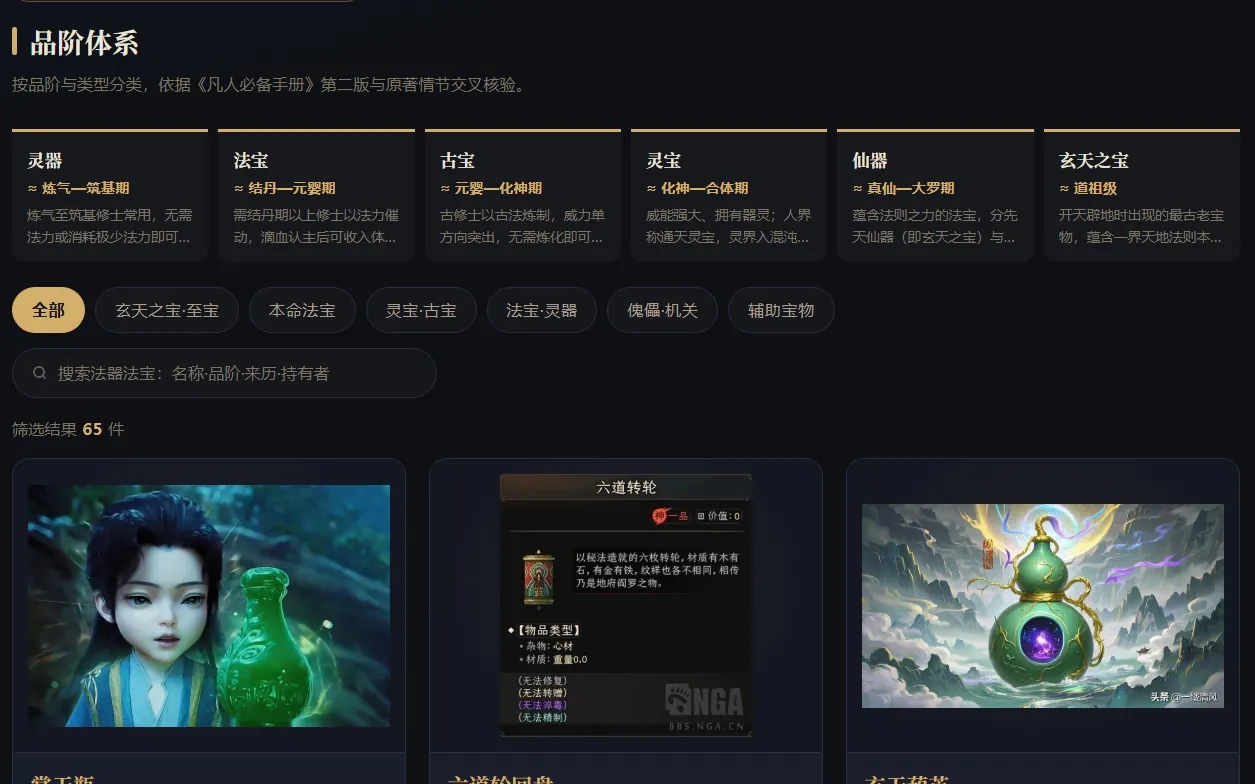
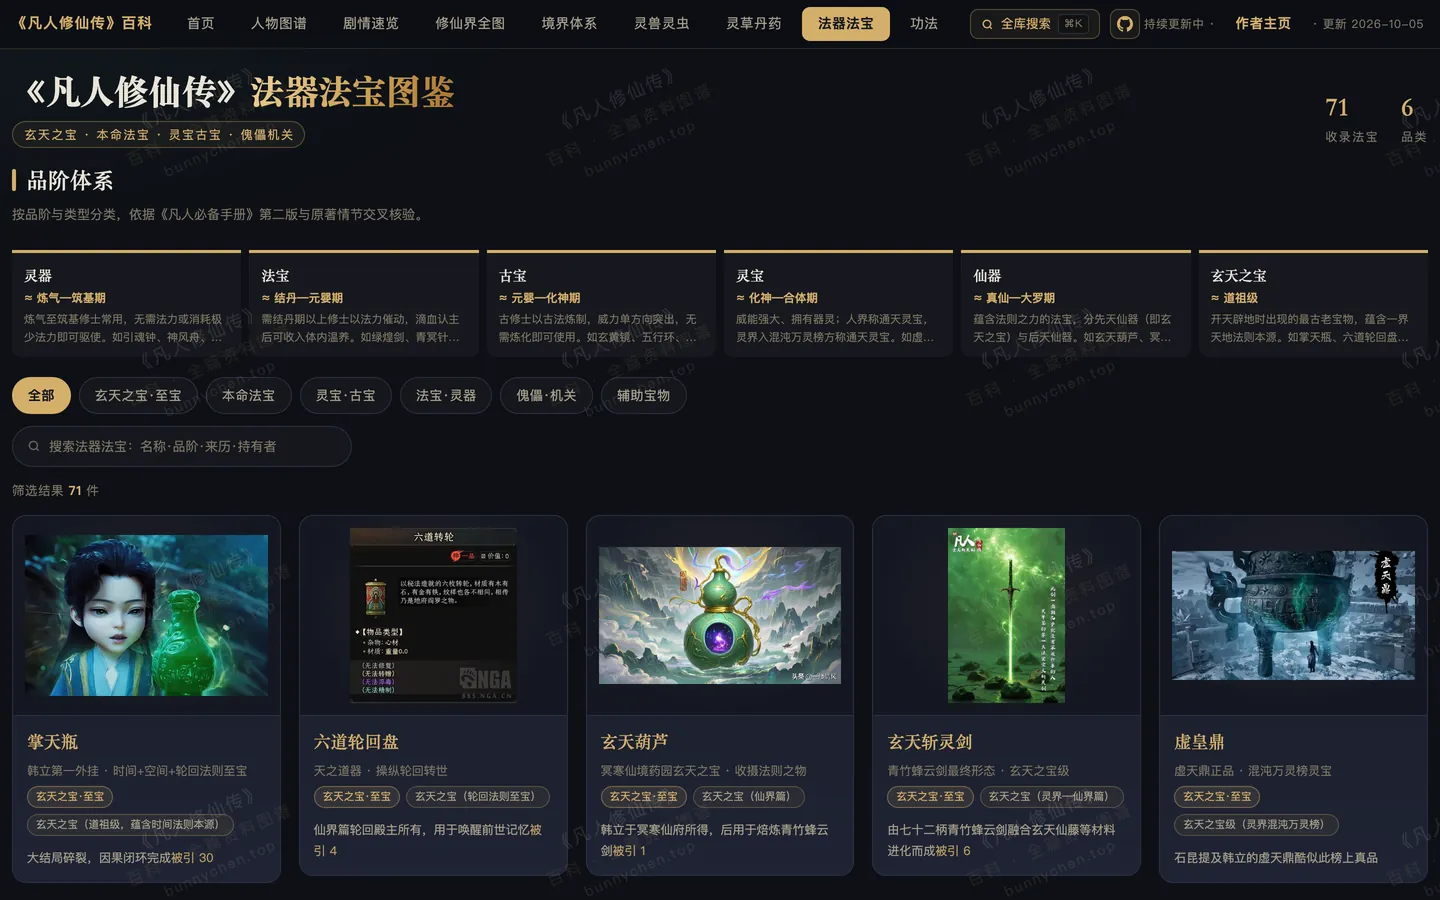
README：更新页面速览截图与封面，补修仙界全图等新视图
- 重做封面（韩立形象 + 掌天瓶），替换 image/README/shots/封面.png
- 新增功法/阵法/符箓/修仙界全图 4 视图截图（08-11），重截 01-07
- 页面速览改 11 视图网格，修仙界全图独立横幅置顶
- 特性/收录内容数字据实更新：263 人物、情节梳理 388 步、核心圈 87、图谱 105 位、地图 152 地点
- dev/Agent.md 新增 §11：README 截图/封面更新流程与数据核实口径

diff --git a/README.md b/README.md
@@ -8,23 +8,36 @@
   <a href="https://bunnychen.top/fanren-wiki/"><img src="image/README/shots/封面.png" alt="首页" width="840"></a>
 </p>
 
-| 人物图谱 | 剧情速览 |
-| :---: | :---: |
-| <a href="https://bunnychen.top/fanren-wiki/#v-chars"><img src="image/README/shots/02-characters.webp" alt="人物图谱" width="400"></a> | <a href="https://bunnychen.top/fanren-wiki/#v-lore"><img src="image/README/shots/03-lore.webp" alt="剧情速览" width="400"></a> |
+| 修仙界全图 · 三界巡游 |
+| :---: |
+| <a href="https://bunnychen.top/fanren-wiki/#v-map"><img src="image/README/shots/11-map.webp" alt="修仙界全图" width="840"></a> |
 
-| 境界体系 | 灵兽灵虫 |
+| 首页 | 人物图谱 |
 | :---: | :---: |
-| <a href="https://bunnychen.top/fanren-wiki/#v-realms"><img src="image/README/shots/04-realms.webp" alt="境界体系" width="400"></a> | <a href="https://bunnychen.top/fanren-wiki/#v-beasts"><img src="image/README/shots/05-beasts.webp" alt="灵兽灵虫" width="400"></a> |
+| <a href="https://bunnychen.top/fanren-wiki/#v-home"><img src="image/README/shots/01-home.webp" alt="首页" width="400"></a> | <a href="https://bunnychen.top/fanren-wiki/#v-chars"><img src="image/README/shots/02-characters.webp" alt="人物图谱" width="400"></a> |
 
-| 灵草丹药 | 法器法宝 |
+| 剧情速览 | 境界体系 |
 | :---: | :---: |
-| <a href="https://bunnychen.top/fanren-wiki/#v-herbs"><img src="image/README/shots/06-herbs.webp" alt="灵草丹药" width="400"></a> | <a href="https://bunnychen.top/fanren-wiki/#v-treasures"><img src="image/README/shots/07-treasures.webp" alt="法器法宝" width="400"></a> |
+| <a href="https://bunnychen.top/fanren-wiki/#v-lore"><img src="image/README/shots/03-lore.webp" alt="剧情速览" width="400"></a> | <a href="https://bunnychen.top/fanren-wiki/#v-realms"><img src="image/README/shots/04-realms.webp" alt="境界体系" width="400"></a> |
+
+| 灵兽灵虫 | 灵草丹药 |
+| :---: | :---: |
+| <a href="https://bunnychen.top/fanren-wiki/#v-beasts"><img src="image/README/shots/05-beasts.webp" alt="灵兽灵虫" width="400"></a> | <a href="https://bunnychen.top/fanren-wiki/#v-herbs"><img src="image/README/shots/06-herbs.webp" alt="灵草丹药" width="400"></a> |
+
+| 法器法宝 | 功法 |
+| :---: | :---: |
+| <a href="https://bunnychen.top/fanren-wiki/#v-treasures"><img src="image/README/shots/07-treasures.webp" alt="法器法宝" width="400"></a> | <a href="https://bunnychen.top/fanren-wiki/#v-gongfa"><img src="image/README/shots/08-gongfa.webp" alt="功法" width="400"></a> |
+
+| 阵法 | 符箓 |
+| :---: | :---: |
+| <a href="https://bunnychen.top/fanren-wiki/#v-zhenfa"><img src="image/README/shots/09-zhenfa.webp" alt="阵法" width="400"></a> | <a href="https://bunnychen.top/fanren-wiki/#v-fu"><img src="image/README/shots/10-fu.webp" alt="符箓" width="400"></a> |
 
 ## 特性
 
-- **十大视图**：首页 / 人物图谱 / 剧情速览 / 境界体系 / 灵兽灵虫 / 灵草丹药 / 法器法宝 / 功法 / 阵法 / 符箓 页内切换，单条记录可深链直达（如 `#v-treasures/tres-12`、`#v-gongfa/gongfa-5`）。
-- **剧情速览分两栏**：`境界时间线`（韩立境界演进 + 故事脉络 + 双韩立因果闭环）与 `情节梳理 · 全书十一卷`（11 卷 / 55 地点篇 / 333 步，带来源署名）。
-- **关系图谱**：ECharts 力导向图，收录被引 ≥ 3 的近百位核心角色（随互引增长），节点可点进对应卡片；人物图谱默认显示全部，可一键切「核心圈 81」降噪。
+- **十一大视图**：首页 / 人物图谱 / 剧情速览 / 修仙界全图 / 境界体系 / 灵兽灵虫 / 灵草丹药 / 法器法宝 / 功法 / 阵法 / 符箓 页内切换，单条记录可深链直达（如 `#v-treasures/tres-12`、`#v-gongfa/gongfa-5`）。
+- **修仙界全图 · 三界巡游**：Canvas 手绘三界舆图，152 处地点 × 21 个区域 × 10 段巡游章节（七玄门 → 大罗之争），跟随韩立足迹自动巡游人界 → 灵界 → 仙界；可播放 / 暂停 / 变速、点击光点查看地点剧情、`/` 搜索地点、一键跳到任一章节；「舆图原图」叠层对照同人舆图（作者：画地图的小七）。
+- **剧情速览分两栏**：`境界时间线`（韩立境界演进 + 故事脉络 + 双韩立因果闭环）与 `情节梳理 · 全书十一卷`（11 卷 / 55 地点篇 / 388 步，带来源署名）。
+- **关系图谱**：ECharts 力导向图，收录被引 ≥ 3 的 105 位核心角色（随互引增长），节点可点进对应卡片；人物图谱默认显示全部 263 条，可一键切「核心圈 87」降噪。
 - **长列表分批渲染**：人物卡片与各库列表先出首批、滚动续传（深链与互引会按需补齐到目标卡），首屏更轻。
 - **全站搜索**：`Ctrl/⌘ + K` 唤起，跨七库命中、关键词高亮、方向键定位。
 - **跨库互引**：七库记录统一编号，卡片互挂「相关条目 / 被引用于」，人物与六库条目互相跳转。
@@ -35,13 +48,14 @@
 
 | 板块     |             条数 | 内容                                                              |
 | -------- | ---------------: | ----------------------------------------------------------------- |
-| 人物图谱 | **二百余** | 六个篇章：七玄门至仙界，从少年修士到大罗道祖                      |
+| 人物图谱 |     **263** | 六个篇章：七玄门至仙界，从少年修士到大罗道祖                      |
 | 灵兽灵虫 |     **42** | 灵虫 / 灵兽 / 妖兽妖修 / 真灵·神兽 / 炼尸魔物                    |
 | 灵草丹药 |     **65** | 灵草灵药 / 天材地宝 / 突破丹药 / 辅助丹药 / 丹方·主材                    |
 | 法器法宝 |     **71** | 玄天之宝·至宝 / 本命法宝 / 神通秘术 / 功法秘典 / 符箓阵法 / 其他          |
 | 功法       |     **53** | 主修功诀 / 神识 / 体修 / 身法魔功，优先收录动画已出现条目，附原著出处 |
 | 阵法       |     **44** | 护山杀阵 / 困敌禁制 / 传送辅助，优先收录动画已出现条目，附原著出处 |
 | 符箓       |     **34** | 攻击 / 防御 / 辅助 / 通讯，优先收录动画已出现条目，附原著出处 |
+| 修仙界全图 |    **152** | 三界地点 × 21 区域 × 10 段巡游章节，韩立足迹人界 → 灵界 → 仙界 |
 | 配图     | **数百张** | 站内配图，人物形象以官方动画/游戏素材为主                         |
 
 数据来源：起点官方《凡人必备手册》第二版 + 原著与公开资料交叉验证；「剧情速览 → 情节梳理」整理自微信公众号「书生去哪了」的原创文章（署名与原文链接见页内，声明见 [`NOTICE`](NOTICE)）。
